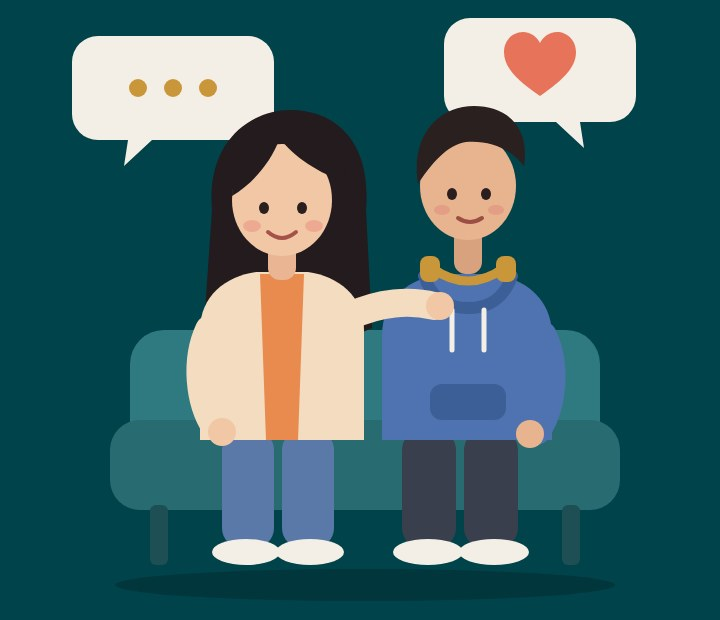
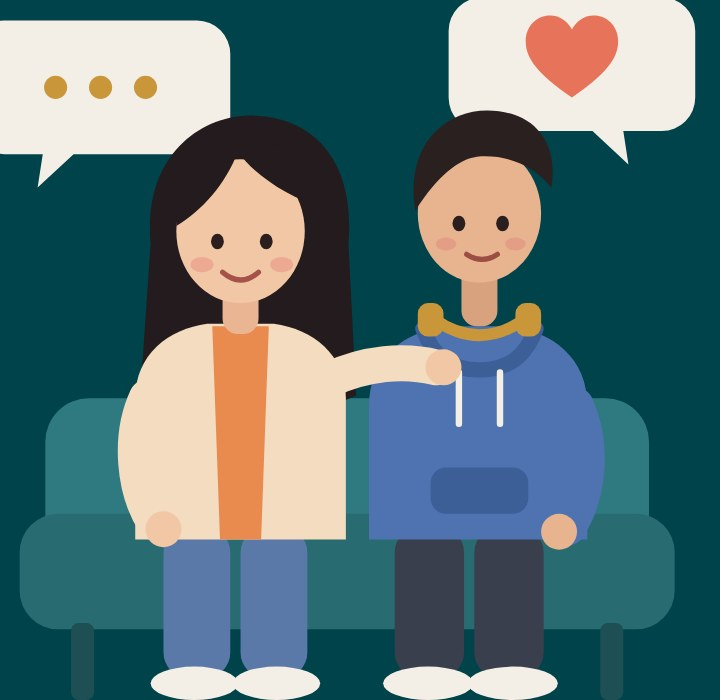
Tighten parent-and-teen illustration; describe parent coaching for teens and young adults
Claude-Session: https://claude.ai/code/session_01WPQDsoVgMzybGv7bmhGbSt

diff --git a/index.html b/index.html
@@ -1757,7 +1757,7 @@
           <div class="cc-img"><img src="images/parent-coaching-teen.jpg" alt="Illustration of a parent and teenager sitting together and talking" /><span class="cc-badge">For parents</span></div>
           <div class="cc-body">
             <h3>Parent Coaching</h3>
-            <p>Coaching for parents of neurodivergent children and teens, so you can better understand your child's needs and build a supportive home environment.</p>
+            <p>Coaching for parents of neurodivergent teens and young adults, so you can better understand your child's needs and build a supportive home environment.</p>
             <ul>
               <li>Understand your child's strengths and needs</li>
               <li>Strengthen communication and relationships at home</li>
